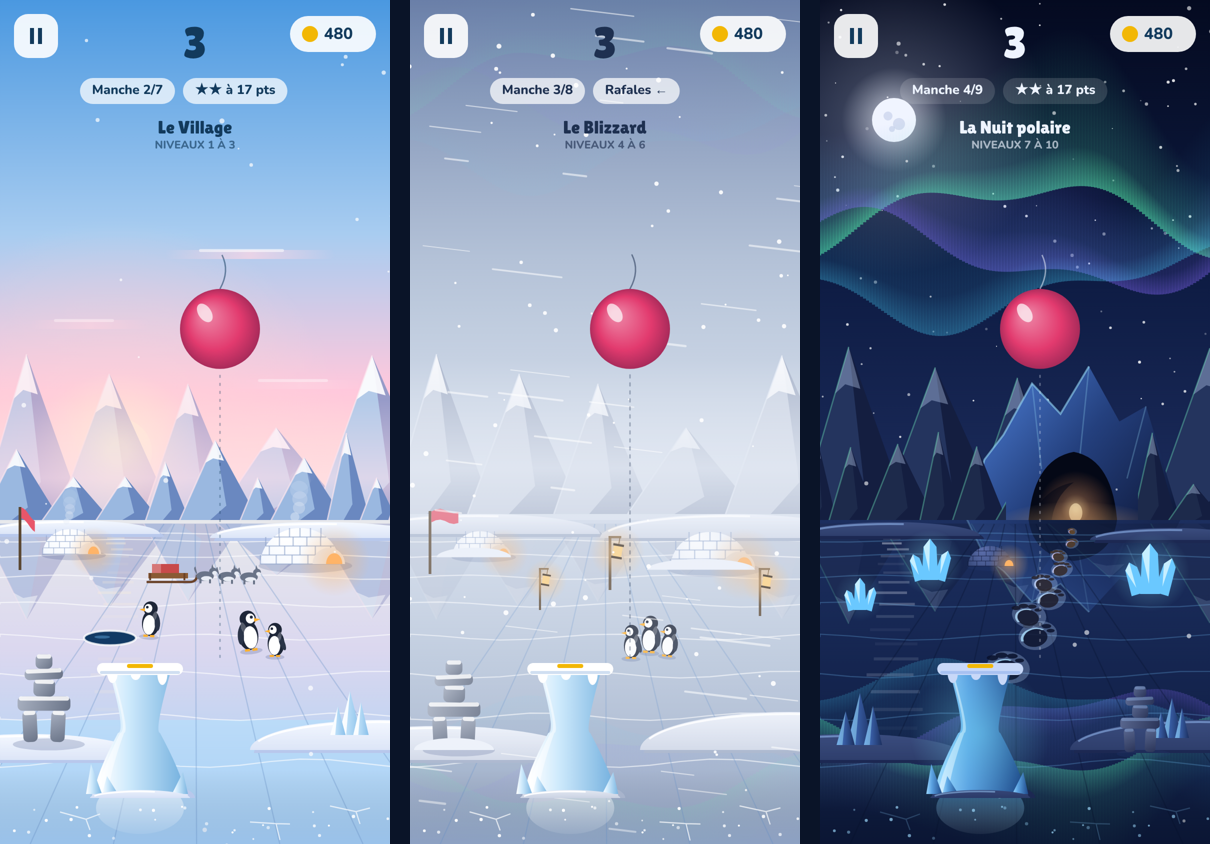
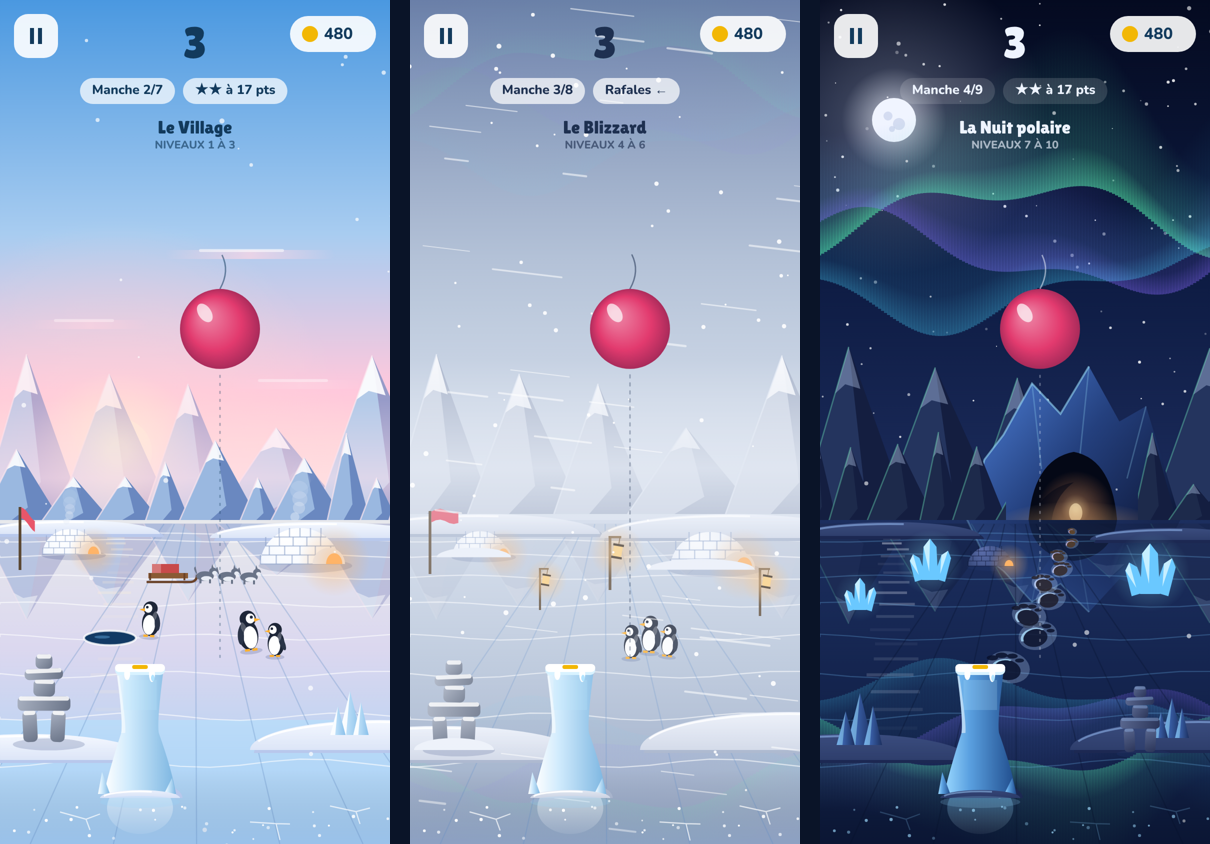
Monde 5 : glace qui fond à la vraie largeur du jeu (rétrécit jusqu'à 55 %)
Claude-Session: https://claude.ai/code/session_01NEC92qwxswvqqiEaD4C6hh

diff --git a/design/brouillons/2026-11-19-banquise-maquettes.html b/design/brouillons/2026-11-19-banquise-maquettes.html
@@ -229,6 +229,7 @@ function snowCap(x, y, w) { /* neige sur le dessus, qui déborde et coule */
 function iceGrad(x0, x1) { const g = c.createLinearGradient(x0, 0, x1, 0);
   if (ZN.night) { g.addColorStop(0, '#9ad8ff'); g.addColorStop(.35, '#5aa0e0'); g.addColorStop(1, '#1e4a8a'); } else { g.addColorStop(0, '#ffffff'); g.addColorStop(.35, '#cfeafc'); g.addColorStop(1, '#7ab4e0'); } return g; }
 function icePlat(x, y) {
+  if (PV === 3) return meltPlat(x, y, 0, 0); /* pic de glace à la vraie largeur du jeu */
   const top = y, bot = ICE - 6;
   if (PV === 1) { /* A : pilier de glace facetté, évasé à la base, qui sort d'une congère */
     platBase(x, 34);
@@ -529,35 +530,32 @@ function yetiScene(t) {
 /* ===== démo : la glace qui fond (?m=1) — sans bonus : plus tu attends, plus le sommet fond et rétrécit ===== */
 const MM = +(Q.get('m') || 0);
 if (MM) { ZN.name = 'La glace qui fond'; ZN.levels = 'Plus tu attends, plus elle rétrécit'; }
-function meltPlat(x, y, k, t) { /* k : 0 = intacte, 1 = fondue au maximum */
-  const w = 86 - k * 52, top = y + k * 10, bot = ICE - 6;
-  platBase(x, 40);
-  /* le pic se creuse en sablier, le sommet s'amincit */
-  const nw = 22 - k * 9;
-  c.fillStyle = iceGrad(x - 40, x + 40); c.beginPath(); c.moveTo(x - w / 2 + 6, top + 2); c.quadraticCurveTo(x - nw, top + 50, x - 22, (top + bot) / 2); c.quadraticCurveTo(x - 44, bot - 20, x - 46, bot); c.lineTo(x + 46, bot); c.quadraticCurveTo(x + 40, bot - 24, x + 20, (top + bot) / 2); c.quadraticCurveTo(x + nw, top + 50, x + w / 2 - 6, top + 2); c.closePath(); c.fill();
-  c.fillStyle = 'rgba(255,255,255,0.5)'; c.beginPath(); c.moveTo(x - w / 2 + 8, top + 4); c.quadraticCurveTo(x - nw + 4, top + 50, x - 16, (top + bot) / 2); c.lineTo(x - 22, (top + bot) / 2); c.quadraticCurveTo(x - nw, top + 50, x - w / 2 + 6, top + 4); c.fill();
-  /* surface mouillée qui brille de plus en plus */
-  c.fillStyle = `rgba(190,235,255,${(.25 + k * .5).toFixed(3)})`; c.fillRect(x - w / 2 + 8, top + 6, w - 16, 40 + k * 30);
-  platBase(x, 50, 1);
-  /* plateau : la neige fond (de moins en moins de neige, la glace apparaît) */
-  c.fillStyle = '#d8f2ff'; c.beginPath(); c.roundRect(x - w / 2, top - 8, w, 11, 5); c.fill();
-  c.fillStyle = `rgba(255,255,255,${(1 - k * .85).toFixed(3)})`; c.beginPath(); c.roundRect(x - w / 2, top - 9, w, 9, 5); c.fill();
-  for (const [dx, h] of [[-w * .3, 8], [w * .25, 11]]) { c.fillStyle = `rgba(255,255,255,${(1 - k).toFixed(3)})`; c.beginPath(); c.ellipse(x + dx, top + 2, 4, h * (1 - k * .6), 0, 0, TAU); c.fill(); }
-  c.fillStyle = '#f2b705'; c.beginPath(); c.roundRect(x - 12, top - 8, 24, 4, 2); c.fill();
-  /* gouttes qui tombent, de plus en plus nombreuses */
-  const n = 1 + Math.floor(k * 5); for (let i = 0; i < n; i++) { const q = ((t * .03 + i / n) % 1), dx = (h1(i * 7) - .5) * (w - 10); c.fillStyle = 'rgba(170,225,255,0.9)'; c.beginPath(); c.ellipse(x + dx, top + 6 + q * (bot - top - 10), 2, 3.5, 0, 0, TAU); c.fill(); }
-  /* flaque au pied qui s'étale */
-  c.fillStyle = `rgba(150,215,255,${(.2 + k * .45).toFixed(3)})`; c.beginPath(); c.ellipse(x, bot + 8, 50 + k * 34, 7 + k * 4, 0, 0, TAU); c.fill();
+const PW0 = 46; /* largeur réelle d'une plateforme du jeu (390 px de large, niveau de la Banquise) */
+function meltPlat(x, y, k, t) { /* k : 0 = intacte (largeur normale du jeu), 1 = fondue (55 % de la largeur) */
+  const w = PW0 * (1 - k * .45), top = y + k * 8, bot = ICE - 6, nw = w * .3 + 3, bw = 36;
+  platBase(x, 30);
+  c.fillStyle = iceGrad(x - bw, x + bw); c.beginPath(); c.moveTo(x - w / 2, top + 2); c.quadraticCurveTo(x - nw, top + 50, x - nw - 2, (top + bot) / 2); c.quadraticCurveTo(x - bw + 4, bot - 20, x - bw, bot); c.lineTo(x + bw, bot); c.quadraticCurveTo(x + bw - 4, bot - 24, x + nw + 2, (top + bot) / 2); c.quadraticCurveTo(x + nw, top + 50, x + w / 2, top + 2); c.closePath(); c.fill();
+  c.fillStyle = 'rgba(255,255,255,0.5)'; c.beginPath(); c.moveTo(x - w / 2 + 2, top + 4); c.quadraticCurveTo(x - nw + 3, top + 50, x - nw + 2, (top + bot) / 2); c.lineTo(x - nw - 2, (top + bot) / 2); c.quadraticCurveTo(x - nw, top + 50, x - w / 2, top + 4); c.fill();
+  for (const [dx, h] of [[-bw, 22], [bw - 6, 16]]) { c.fillStyle = iceGrad(x + dx - 6, x + dx + 6); c.beginPath(); c.moveTo(x + dx - 6, bot); c.lineTo(x + dx + (dx < 0 ? -2 : 2), bot - h); c.lineTo(x + dx + 6, bot); c.fill(); }
+  c.fillStyle = `rgba(190,235,255,${(.2 + k * .5).toFixed(3)})`; c.fillRect(x - nw, top + 8, nw * 2, 30 + k * 30);
+  platBase(x, 40, 1);
+  /* plateau = la vraie surface d'atterrissage (même largeur que dans le jeu) */
+  c.fillStyle = '#d8f2ff'; c.beginPath(); c.roundRect(x - w / 2 - 2, top - 7, w + 4, 10, 5); c.fill();
+  c.fillStyle = `rgba(255,255,255,${(1 - k * .85).toFixed(3)})`; c.beginPath(); c.roundRect(x - w / 2 - 2, top - 8, w + 4, 8, 4); c.fill();
+  c.fillStyle = `rgba(255,255,255,${(1 - k).toFixed(3)})`; c.beginPath(); c.ellipse(x - w * .28, top + 2, 3, 6 * (1 - k * .6), 0, 0, TAU); c.fill(); c.beginPath(); c.ellipse(x + w * .26, top + 2, 3, 8 * (1 - k * .6), 0, 0, TAU); c.fill();
+  c.fillStyle = '#f2b705'; c.beginPath(); c.roundRect(x - w * .17, top - 7, w * .34, 4, 2); c.fill();
+  const n = 1 + Math.floor(k * 4); for (let i = 0; i < n; i++) { const q = ((t * .03 + i / n) % 1), dx = (h1(i * 7) - .5) * (w - 6); c.fillStyle = 'rgba(170,225,255,0.9)'; c.beginPath(); c.ellipse(x + dx, top + 6 + q * (bot - top - 10), 1.8, 3.2, 0, 0, TAU); c.fill(); }
+  c.fillStyle = `rgba(150,215,255,${(.2 + k * .45).toFixed(3)})`; c.beginPath(); c.ellipse(x, bot + 8, 40 + k * 28, 6 + k * 4, 0, 0, TAU); c.fill();
   return { top, w }; }
 function meltBall(x, y, r, t, o = {}) { const g = c.createRadialGradient(x - r * .35, y - r * .35, r * .1, x, y, r * 1.05); g.addColorStop(0, '#ff8ab0'); g.addColorStop(.6, '#e23a6e'); g.addColorStop(1, '#6a1030');
   c.fillStyle = g; c.beginPath(); c.ellipse(x, y, r * (o.sq || 1), r / (o.sq || 1), 0, 0, TAU); c.fill(); c.fillStyle = 'rgba(255,255,255,0.7)'; c.beginPath(); c.ellipse(x - r * .38, y - r * .4, r * .16, r * .26, -.6, 0, TAU); c.fill(); }
 function meltScene(t) { /* cycle 440 : lâcher tôt (réussi) puis lâcher tard (raté) */
-  const T = t % 440, first = T < 200, U = first ? T : T - 200, PX0 = 170, r = 28;
+  const T = t % 440, first = T < 200, U = first ? T : T - 200, PX0 = 170, r = 46;
   const wait = first ? 20 : 140, k = Math.min(1, U / 160);
   const P = meltPlat(PX0, 672, k, t);
   /* jauge de fonte au-dessus de la plateforme (pas de bonus : juste le temps qui presse) */
-  c.save(); c.translate(PX0, P.top - 26); c.fillStyle = 'rgba(10,30,70,0.35)'; c.beginPath(); c.roundRect(-30, -4, 60, 8, 4); c.fill(); c.fillStyle = k > .7 ? '#ff7a5a' : '#7ad8ff'; c.beginPath(); c.roundRect(-30, -4, 60 * (1 - k), 8, 4); c.fill(); c.restore();
-  const bx = first ? PX0 : PX0 + 34; let by = 300;
+  c.save(); c.translate(PX0, P.top + 40); c.fillStyle = 'rgba(10,30,70,0.35)'; c.beginPath(); c.roundRect(-24, -3, 48, 6, 3); c.fill(); c.fillStyle = k > .7 ? '#ff7a5a' : '#7ad8ff'; c.beginPath(); c.roundRect(-24, -3, 48 * (1 - k), 6, 3); c.fill(); c.restore();
+  const bx = first ? PX0 : PX0 + 20; let by = 300;
   if (U < wait) { c.save(); c.globalAlpha = .9; c.fillStyle = '#fff'; c.beginPath(); c.roundRect(bx - 7, by + r + 30, 14, 30, 7); c.fill(); c.restore(); meltBall(bx, by + Math.sin(t * .05) * 2, r, t); }
   else { const q = (U - wait) / 30, landY = P.top - 8 - r;
     if (first) { const yy = q < 1 ? by + (landY - by) * q * q : landY; meltBall(bx, yy, r, t, { sq: q >= 1 && q < 1.2 ? 1.15 : 1 }); yTxt('+1', bx + 40, landY - 20, (q - 1) / 1.5, '#ffd23f', 32); }
